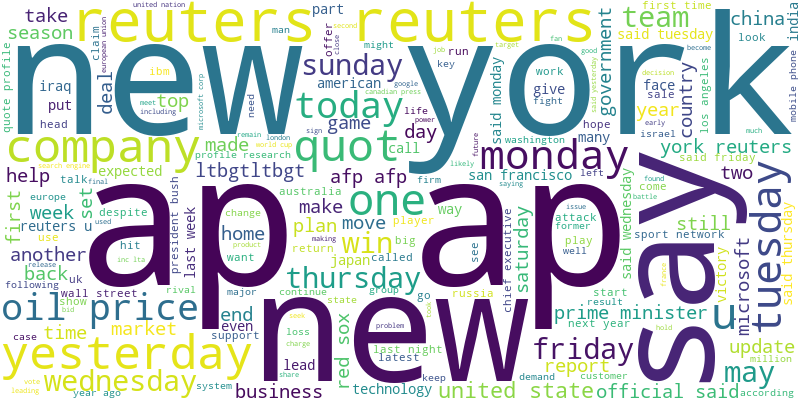
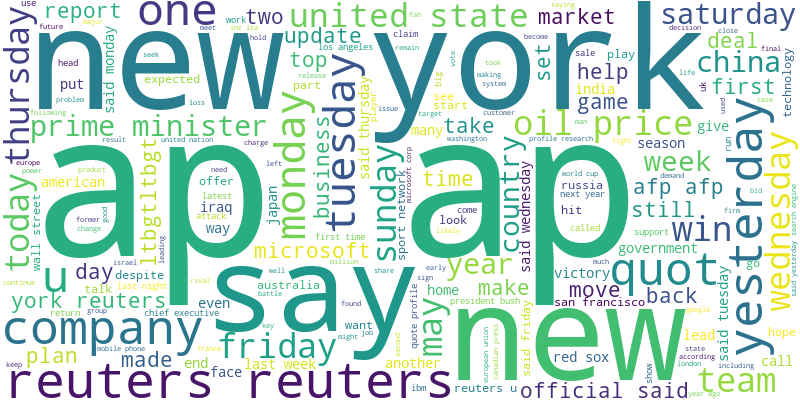
final_commit

diff --git a/src/testing.py b/src/testing.py
@@ -1,51 +1,51 @@
-import joblib
+    import joblib
 
-from preprocess import PreProcessor
-from ner import Ner
-from sentiment import Sentiment
+    from preprocess import PreProcessor
+    from ner import Ner
+    from sentiment import Sentiment
 
-class Test:
-    def __init__(self):
+    class Test:
+        def __init__(self):
 
-        self.model = joblib.load(r"C:\Main_Drive\work\workarea\projects\news_article_analyzer\models\Baseline_logistic.pkl")
+            self.model = joblib.load(r"C:\Main_Drive\work\workarea\projects\news_article_analyzer\models\Baseline_logistic.pkl")
 
-        self.vector = joblib.load(r"C:\Main_Drive\work\workarea\projects\news_article_analyzer\artifacts\tf_idf_vector.pkl")
+            self.vector = joblib.load(r"C:\Main_Drive\work\workarea\projects\news_article_analyzer\artifacts\tf_idf_vector.pkl")
+            
+            self.obj_pre = PreProcessor("","")
+
+            self.obj_ner = Ner("")
+
+        def run(self):
+
+            article = input("Enter News Article : ")
+
+            preprocessed_article = self.obj_pre.preprocess_text(article)
+
+            tf_idf_article = self.vector.transform([preprocessed_article])
+
+            model_predict = self.model.predict(tf_idf_article)
+
+            print("Prediction :", model_predict)
+
+            self.obj_ner = Ner(article)
+            
+            # self.obj_ner.ne_chunk_entities()
+
+            self.obj_ner.spacy_ner()
+            self.obj_ner.spacy_entities_freq()
+
+            self.obj_senti = Sentiment(article)
+            self.obj_senti.vader_sentiment()
+            self.obj_senti.sentiment_label()
+
+
+
+            
+
+
+            
+
         
-        self.obj_pre = PreProcessor("","")
-
-        self.obj_ner = Ner("")
-
-    def run(self):
-
-        article = input("Enter News Article : ")
-
-        preprocessed_article = self.obj_pre.preprocess_text(article)
-
-        tf_idf_article = self.vector.transform([preprocessed_article])
-
-        model_predict = self.model.predict(tf_idf_article)
-
-        print("Prediction :", model_predict)
-
-        self.obj_ner = Ner(article)
-        
-        # self.obj_ner.ne_chunk_entities()
-
-        self.obj_ner.spacy_ner()
-        self.obj_ner.spacy_entities_freq()
-
-        self.obj_senti = Sentiment(article)
-        self.obj_senti.vader_sentiment()
-        self.obj_senti.sentiment_label()
-
-
-
-        
-
-
-        
-
-    
-obj_test = Test()
-obj_test.run()
+    obj_test = Test()
+    obj_test.run()
 

diff --git a/main.py b/main.py
@@ -1,41 +1,83 @@
+import joblib
+
 from src.preprocess import PreProcessor
 from src.feature_extraction import FeatureExtractor
 from src.baseline_model import Model
-
+from src.ner import Ner
+from src.sentiment import Sentiment
 
 
 class NewsArticleAnalzer:
     def __init__(self, train_path, test_path):
         self.train_path = train_path
         self.test_path = test_path
+
         self.obj_pre = PreProcessor(self.train_path, self.test_path)
         self.obj_fe = None
         self.obj_model = None
 
+    # ---------------- TRAIN ---------------- #
 
-    def run(self):
+    def train(self):
         self.obj_pre.load_ds()
         self.obj_pre.preprocess_dataset()
         self.obj_pre.save_processed_ds()
+
         self.obj_fe = FeatureExtractor(self.obj_pre.train_df, self.obj_pre.test_df)
+
         self.obj_fe.word_count()
         self.obj_fe.word_cloud()
         self.obj_fe.bag_of_words()
         self.obj_fe.tf_idf()
+
         self.obj_model = Model(
             self.obj_fe.x_train,
             self.obj_fe.x_test,
             self.obj_fe.y_train,
             self.obj_fe.y_test,
         )
+
         self.obj_model.train_model()
         self.obj_model.evaluate_model()
         self.obj_model.save_model()
 
+    # ---------------- TEST ---------------- #
+
+    def analyze_article(self):
+
+        model = joblib.load("models/Baseline_logistic.pkl")
+        vector = joblib.load("artifacts/tf_idf_vector.pkl")
+
+        article = input("Enter News Article : ")
+
+        clean_article = self.obj_pre.preprocess_text(article)
+
+        article_vector = vector.transform([clean_article])
+
+        prediction = model.predict(article_vector)
+
+        print("Prediction :", prediction)
+
+        ner = Ner(article)
+
+        ner.spacy_ner()
+        ner.spacy_entities_freq()
+
+        sentiment = Sentiment(article)
+
+        sentiment.vader_sentiment()
+        sentiment.sentiment_label()
 
 
 if __name__ == "__main__":
+
     train_path = r"data\raw\train.csv"
     test_path = r"data\raw\test.csv"
+
     obj_news = NewsArticleAnalzer(train_path, test_path)
-    obj_news.run()
+
+    # Train Model
+    # obj_news.train()
+
+    # Test New Article
+    obj_news.analyze_article()

diff --git a/src/feature_extraction.py b/src/feature_extraction.py
@@ -38,7 +38,7 @@ class FeatureExtractor:
 
         self.y_train = self.train_df["label"]
         self.y_test = self.test_df["label"]
-      
+        
         # print("BoW Sample Labels")
         # print("y_train :", self.x_train.iloc[10])
         # print("y_test :", self.x_test.iloc[10])

diff --git a/src/preprocess.py b/src/preprocess.py
@@ -65,7 +65,7 @@ class PreProcessor:
         self.train_df["clean_text"] = self.train_df["text"].apply(self.preprocess_text)
         self.test_df["clean_text"] = self.test_df["text"].apply(self.preprocess_text)
 
-
+    
 
     def save_processed_ds(self):
 